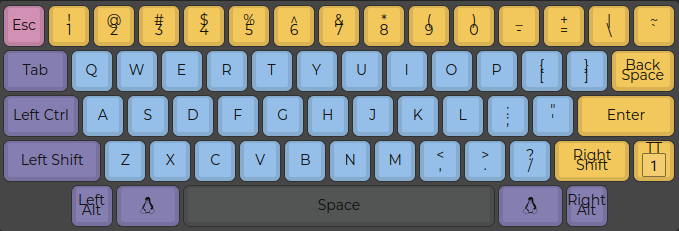
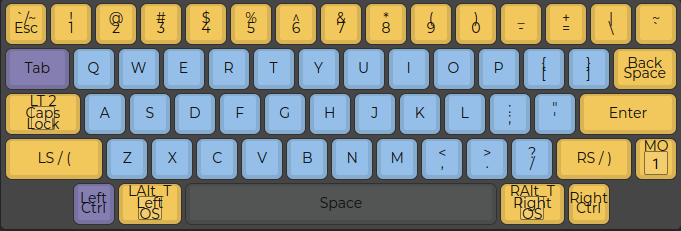
feat(tokyo60) add new tokyo60 3 layers layout

diff --git a/doc/tokyo60/README.md b/doc/tokyo60/README.md
@@ -2,7 +2,6 @@
 
 ## Compile Firmware
 
-- QMK
 QMK support can be found [here](https://github.com/qmk/qmk_firmware/tree/master/keyboards/tokyokeyboard/tokyo60)
 
 ## Burn Firmware
@@ -15,6 +14,41 @@ Product Name: 0x95 (149)
 
 sudo dfu-programmer atmega32u4 get bootloader-version
 Bootloader Version: 0x00 (0)
+
+sudo dfu-programmer atmega32u4 erase --debug=999
+dfu.c:144: dfu_download( 0x7ffc2fb812a0, 6, 0x7ffc2fb811d2 )
+dfu.c:165: Message: m[0] = 0x03
+dfu.c:165: Message: m[1] = 0x01
+dfu.c:165: Message: m[2] = 0x00
+dfu.c:165: Message: m[3] = 0x00
+dfu.c:165: Message: m[4] = 0x6f
+dfu.c:165: Message: m[5] = 0xff
+dfu.c:203: dfu_get_status( 0x7ffc2fb812a0, 0x7ffc2fb811c4 )
+dfu.c:229: ==============================
+dfu.c:230: status->bStatus: OK (0x00)
+dfu.c:232: status->bwPollTimeout: 0x0001 ms
+dfu.c:233: status->bState: dfuIDLE (0x02)
+dfu.c:235: status->iString: 0x00
+dfu.c:236: ------------------------------
+atmel.c:784: Flash region from 0x0 to 0x6FFF is blank.
+atmel.c:861: Flash blank from 0x0 to 0x6FFF.
+Empty.
+
+sudo dfu-programmer atmega32u4 flash --force --debug=999 tokyokeyboard_tokyo60_grumpycat.hex
+dfu.c:144: dfu_download( 0x7ffc2cda6c00, 6, 0x7ffc2cda69f2 )
+dfu.c:165: Message: m[0] = 0x03
+dfu.c:165: Message: m[1] = 0x00
+dfu.c:165: Message: m[2] = 0x6c
+dfu.c:165: Message: m[3] = 0x00
+dfu.c:165: Message: m[4] = 0x6f
+dfu.c:165: Message: m[5] = 0xff
+dfu.c:179: dfu_upload( 0x7ffc2cda6c00, 1024, 0x55df17906080 )
+Success
+intel_hex.c:626: Validating image from byte 0x0 to 0x6FFF.
+Validating...  Success
+0x5380 bytes written into 0x7000 bytes memory (74.55%).
+
+sudo dfu-programmer atmega32u4 reset
 ```
 
 ## Layout
@@ -26,3 +60,7 @@ Bootloader Version: 0x00 (0)
 > Layer 1: function
 
 ![layer1](./tokyo60-layer1.png)
+
+> Layer 2: configuration
+
+![layer1](./tokyo60-layer2.png)
